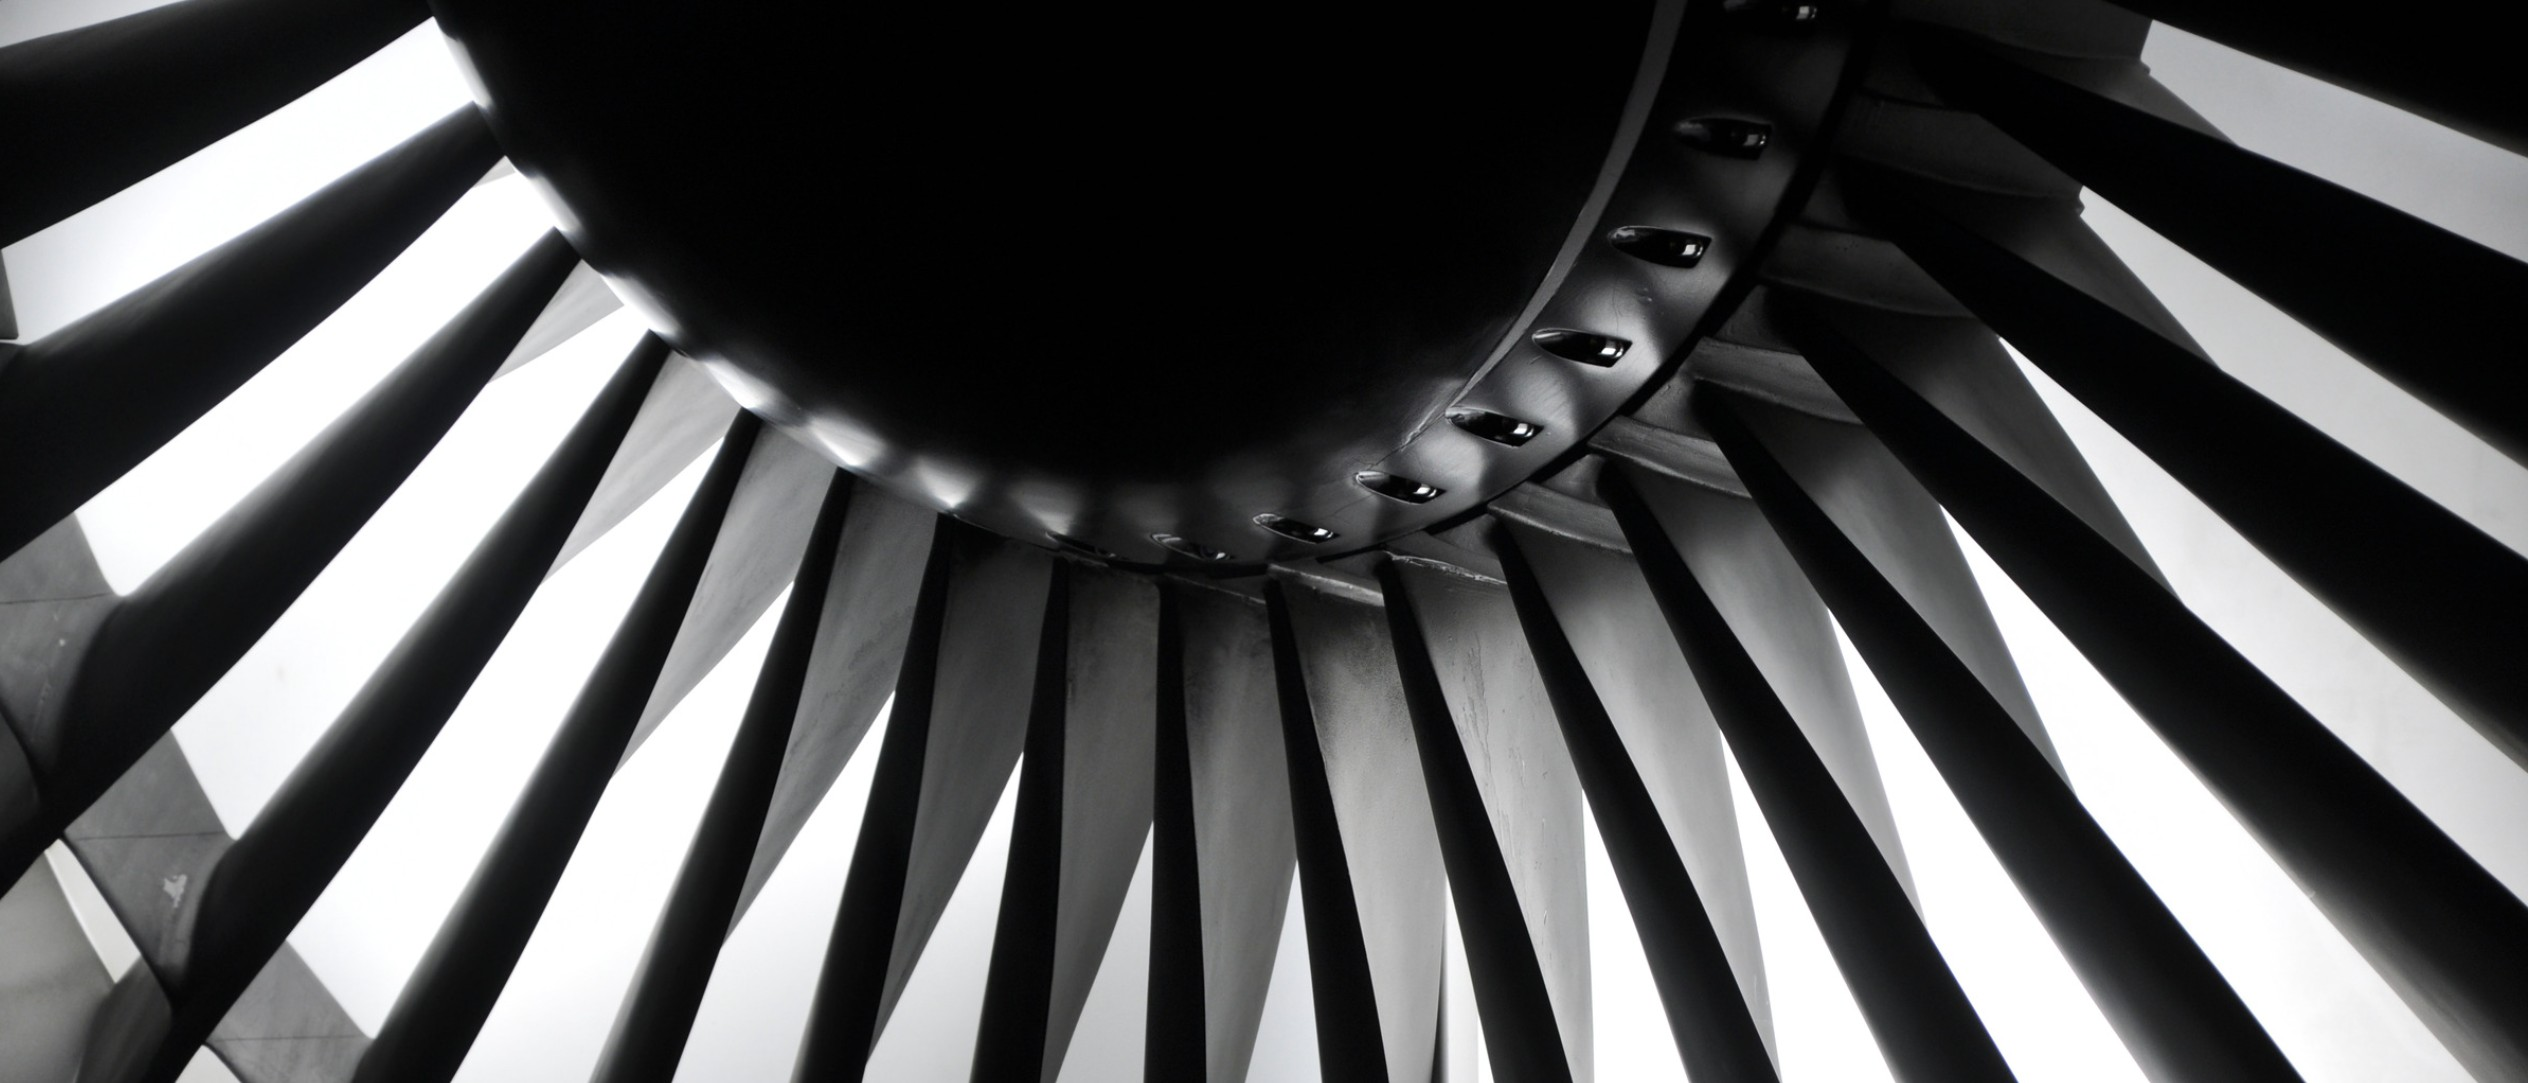
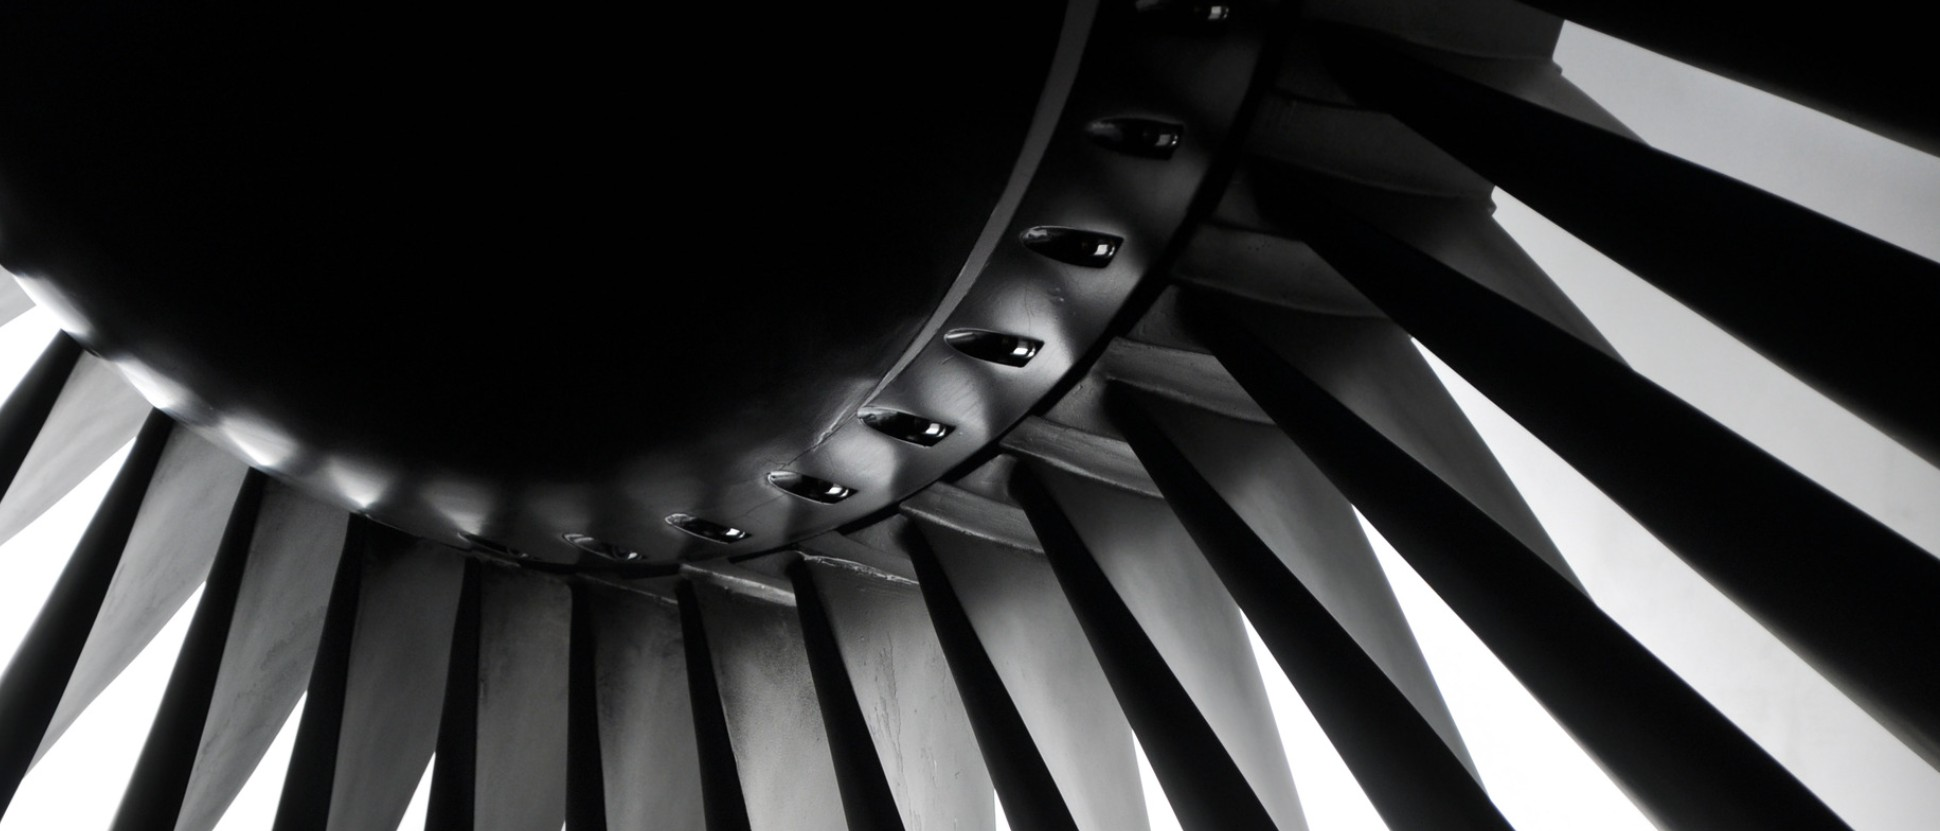
Fix FR/EN toggle: inline display:block was defeating the hidden attribute
Root cause of the language filter appearing broken: every article card
had style="display:block" written inline, which beats the browser's
default [hidden] { display: none } rule regardless of the hidden
attribute's state. Added [hidden] { display: none !important; } so the
hidden attribute (and the JS toggle that flips it) actually works.

Also: re-center the turbine banner crop on the hub, remove the
now-empty "Téléphone" list item on the contact page, and improve the
ESSEC card copy.

diff --git a/contact.html b/contact.html
@@ -198,14 +198,6 @@
             </div>
             <div class="contact-list__item">
               <span class="contact-list__icon" aria-hidden="true">
-                <svg width="18" height="18" viewBox="0 0 24 24" fill="none"><path d="M6.6 10.8c1.4 2.8 3.8 5.1 6.6 6.6l2.2-2.2c.3-.3.7-.4 1-.2 1.1.4 2.3.6 3.6.6.6 0 1 .4 1 1V20c0 .6-.4 1-1 1C10.9 21 3 13.1 3 3.9 3 3.4 3.4 3 4 3h3.4c.5 0 1 .4 1 1 0 1.2.2 2.4.6 3.6.1.4 0 .8-.2 1L6.6 10.8z" stroke="currentColor" stroke-width="1.4"/></svg>
-              </span>
-              <div>
-                <h4>Téléphone</h4>
-              </div>
-            </div>
-            <div class="contact-list__item">
-              <span class="contact-list__icon" aria-hidden="true">
                 <svg width="18" height="18" viewBox="0 0 24 24" fill="none"><path d="M6 9v10M6 6.01V6M11 19v-6.5a2.5 2.5 0 015 0V19M11 12v7" stroke="currentColor" stroke-width="1.4" stroke-linecap="round"/></svg>
               </span>
               <div>

diff --git a/css/style.css b/css/style.css
@@ -756,6 +756,7 @@ fieldset.form-field { border: none; padding: 0; margin: 0; }
 .site-footer__bottom a:hover { color: var(--accent-on-dark); }
 
 /* ---- Reveal on scroll ---- */
+[hidden] { display: none !important; }
 .reveal { opacity: 0; transform: translateY(24px); transition: opacity 0.9s var(--ease), transform 0.9s var(--ease); }
 .reveal.is-visible { opacity: 1; transform: translateY(0); }
 .reveal-delay-1.is-visible { transition-delay: 0.08s; }

diff --git a/parcours.html b/parcours.html
@@ -184,7 +184,7 @@
         </div>
         <div class="card">
           <h3>ESSEC Executive Education</h3>
-          <p>Coach de dirigeants certifié par ESSEC Executive Education.</p>
+          <p>Coach intervenant sur seize programmes exécutifs de l'ESSEC Executive Education.</p>
         </div>
       </div>
     </div>

diff --git a/methode.html b/methode.html
@@ -125,7 +125,7 @@
   </section>
 
   <div class="ambiance-banner">
-    <img src="images/ambiance-turbine.webp" alt="" loading="lazy" style="object-position:center 55%">
+    <img src="images/ambiance-turbine.webp" alt="" loading="lazy">
   </div>
 
   <section class="section section--dark">
